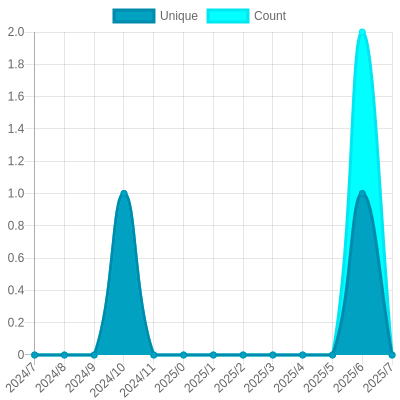
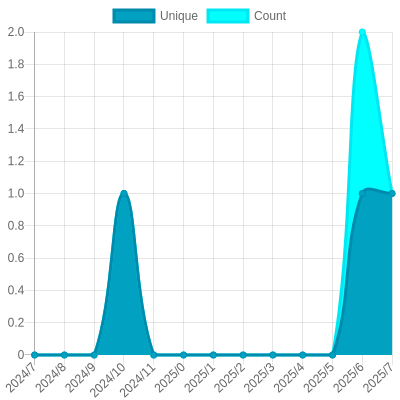
Update views

diff --git a/readme/470949227/year.md b/readme/470949227/year.md
@@ -23,10 +23,10 @@
 			<code>2024/8/1</code>
 		</td>
 		<td>
-			<code>0</code>
+			<code>1</code>
 		</td>
 		<td>
-			<code>0</code>
+			<code>1</code>
 		</td>
 	</tr>
 	<tr>
@@ -164,7 +164,7 @@
 </table>
 
 </details>
-<small><i>Last updated on 2024/8/29 12:11 PM UTC</i></small>
+<small><i>Last updated on 2024/8/29 6:00 PM UTC</i></small>
 
 ## ✂Copy and 📋 Paste
 ### SVG Badge

diff --git a/README.md b/README.md
@@ -53,7 +53,7 @@ The project created and maintained by [gayanvoice](https://github.com/gayanvoice
 	</tr>
 </table>
 
-<small><i>Last updated on 2024/8/29 12:11 PM UTC</i></small>
+<small><i>Last updated on 2024/8/29 6:00 PM UTC</i></small>
 
 ## ✂Copy and 📋 Paste
 ### Total Views Badge

diff --git a/readme/463914141/year.md b/readme/463914141/year.md
@@ -164,7 +164,7 @@
 </table>
 
 </details>
-<small><i>Last updated on 2024/8/29 12:11 PM UTC</i></small>
+<small><i>Last updated on 2024/8/29 6:00 PM UTC</i></small>
 
 ## ✂Copy and 📋 Paste
 ### SVG Badge
